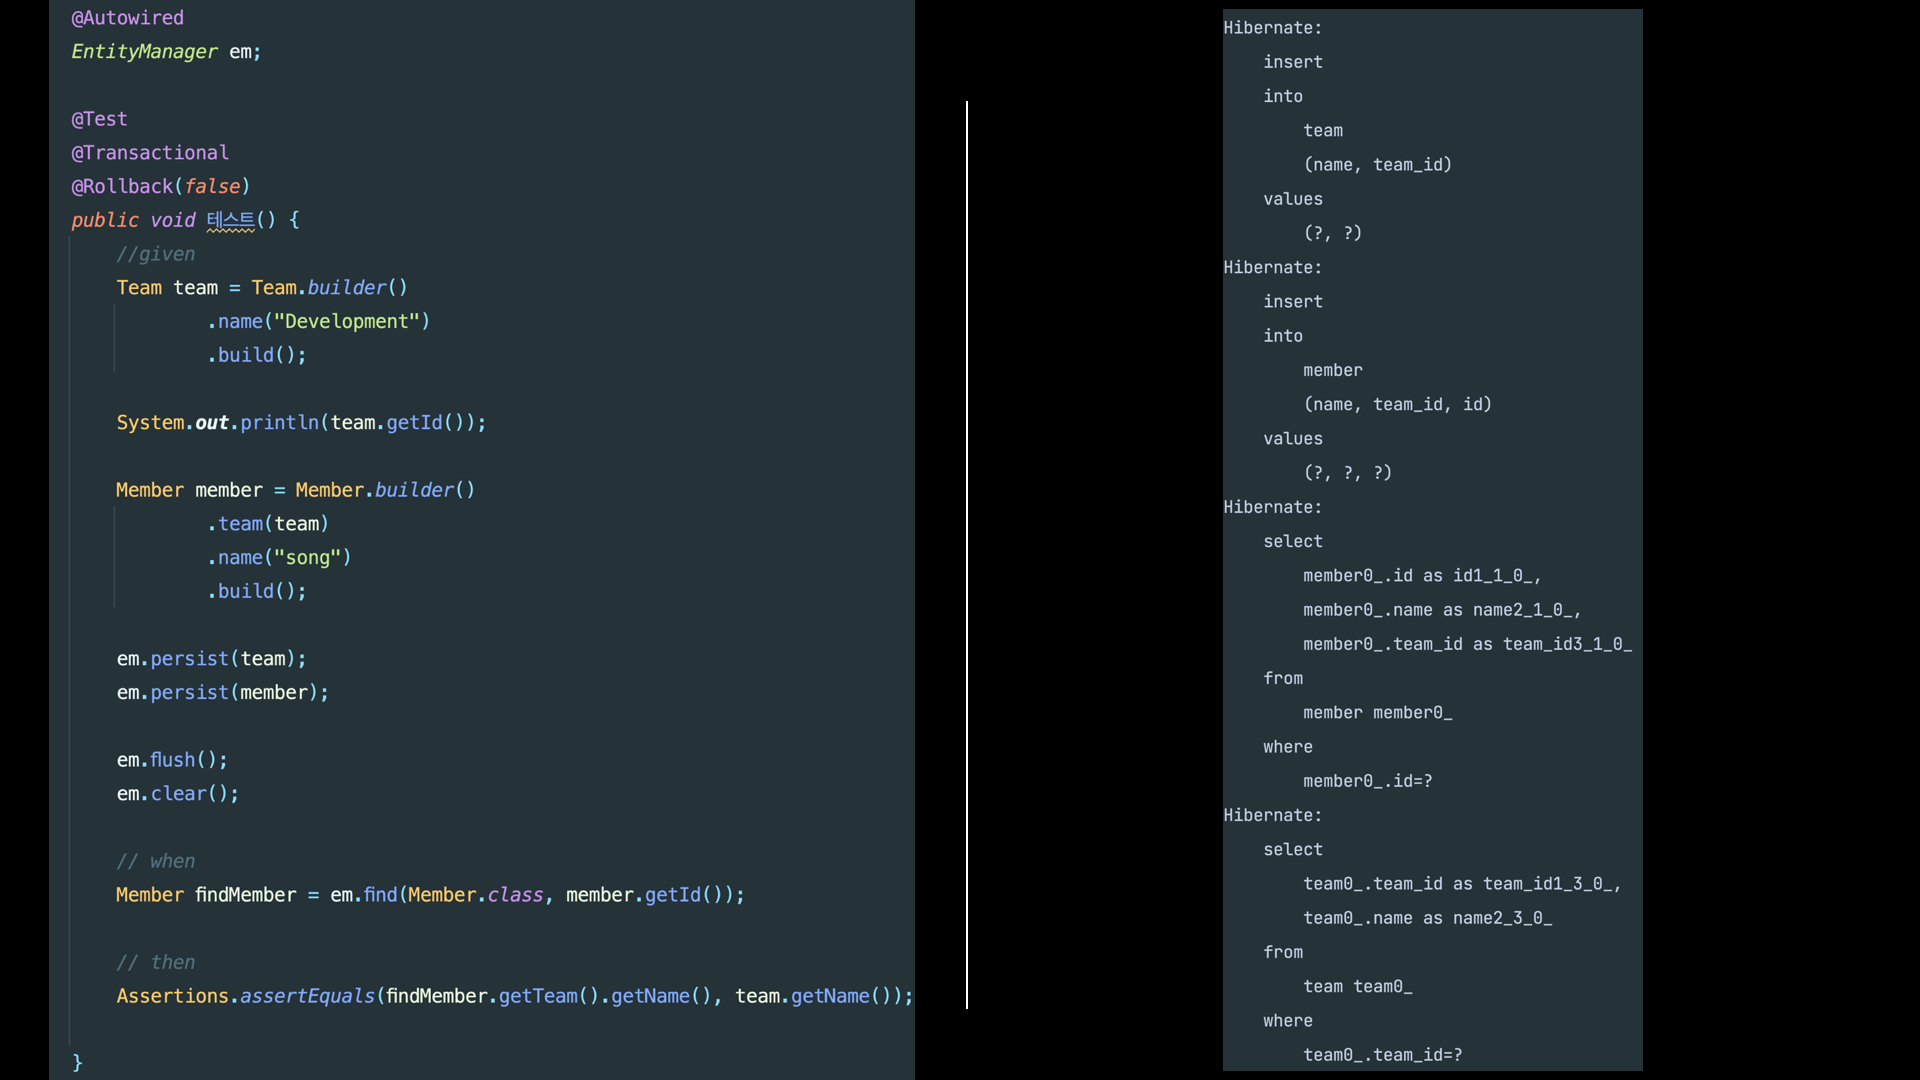
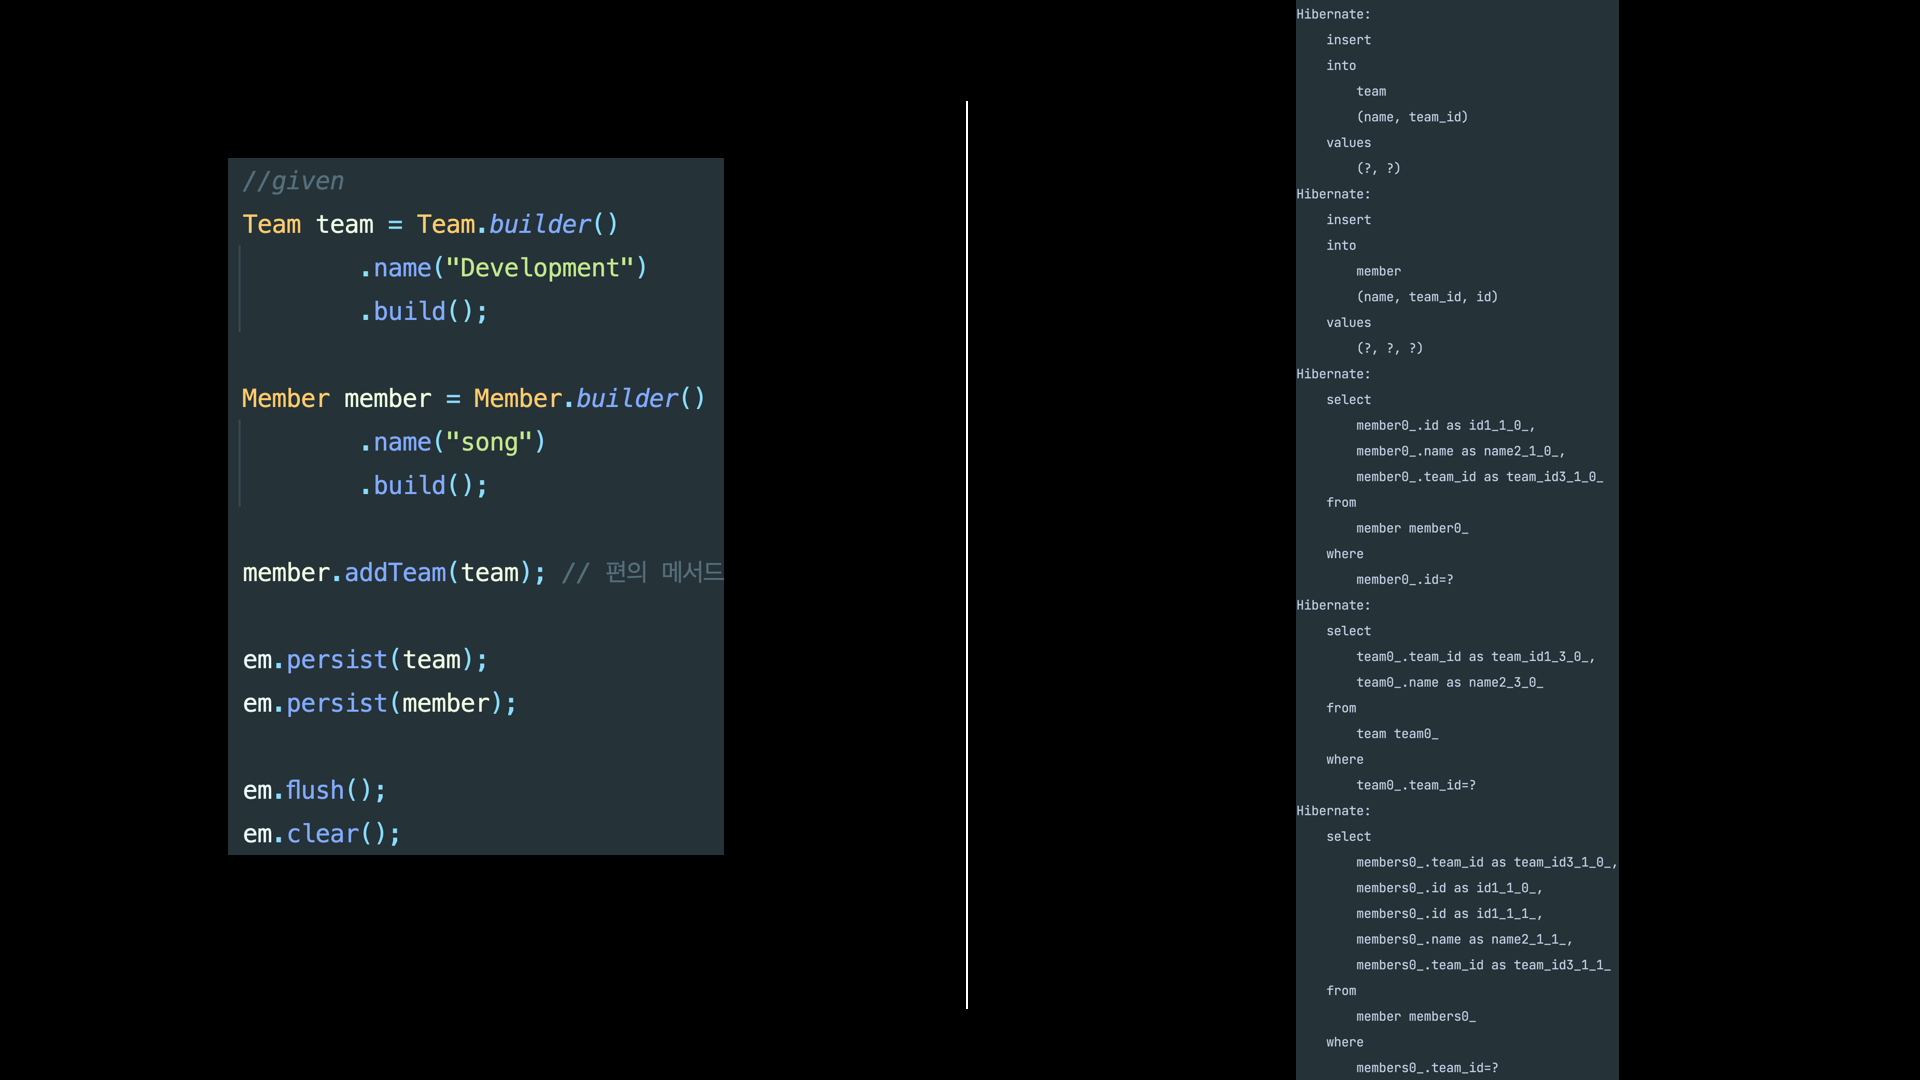
add : #15 다대일 양방향 관계

diff --git a/practice/jpastudy/src/test/java/com/jpastudy/demo/domain/EntityTest.java b/practice/jpastudy/src/test/java/com/jpastudy/demo/domain/EntityTest.java
@@ -8,6 +8,7 @@ import org.springframework.test.annotation.Rollback;
 import org.springframework.transaction.annotation.Transactional;
 
 import javax.persistence.EntityManager;
+import java.util.stream.Collectors;
 
 @SpringBootTest
 class EntityTest {
@@ -24,12 +25,11 @@ class EntityTest {
                 .name("Development")
                 .build();
 
-        System.out.println(team.getId());
-
         Member member = Member.builder()
-                .team(team)
                 .name("song")
                 .build();
+
+        member.addTeam(team); // 편의 메서드
 
         em.persist(team);
         em.persist(member);
@@ -39,9 +39,16 @@ class EntityTest {
 
         // when
         Member findMember = em.find(Member.class, member.getId());
+        Team findTeam = em.find(Team.class, team.getId());
 
         // then
-//        Assertions.assertEquals(findMember.getTeam().getName(), team.getName());
+        Assertions.assertEquals(
+                findMember.getName(),
+                findTeam.getMembers()
+                        .stream()
+                        .map(Member::getName)
+                        .collect(Collectors.joining())
+        );
 
     }
 

diff --git a/practice/jpastudy/src/main/java/com/jpastudy/demo/domain/Member.java b/practice/jpastudy/src/main/java/com/jpastudy/demo/domain/Member.java
@@ -25,9 +25,18 @@ public class Member {
     ////////////////////
 
     @Builder
-    public Member(String name, Team team) {
+    public Member(String name) {
         this.name = name;
+    }
+
+    // 편의 메서드
+    public void addTeam(Team team) {
+        if(this.team != null) {
+            this.team.getMembers().remove(this);
+        }
+
         this.team = team;
+        team.getMembers().add(this);
     }
 
 }

diff --git a/practice/jpastudy/src/main/java/com/jpastudy/demo/domain/Team.java b/practice/jpastudy/src/main/java/com/jpastudy/demo/domain/Team.java
@@ -17,6 +17,9 @@ public class Team {
 
     private String name;
 
+    @OneToMany(mappedBy = "team")
+    private List<Member> members = new ArrayList<>();
+
     @Builder
     public Team(String name) {
         this.name = name;

diff --git a/practice/jpastudy/assets/README.md b/practice/jpastudy/assets/README.md
@@ -1,7 +1,6 @@
 
 # 다양한 연관관계 매핑
 
-
 ## 1. 다대일
 
 ### 1.1. 다대일 단방향
@@ -20,9 +19,38 @@ private Team team;
 - `@JoinColumn` : name을 생략하면 TEAM_TEAM_ID`[객체명_객체컬럼]`이 default
 - Member.team 필드로 회원 테이블의 TEAM_ID 외래 키와 매핑하여 관리
 
-![img.png](img.png)
+#### 1.1.1. 다대일 단방향 Test
+![img_1.png](img_1.png)
 1. em.flush(), clear()를 통해 INSERT 구문 실행 및 영속성 컨텍스트 캐시가 비워진 상황이다. 
 2. em.find()를 통해  SELECT 구문이 실행
 3. findMember.getTeam().getName()을 통해 SELECT 구문 실행 
 
 ### 1.2. 다대일 양방향
+![img_3.png](img_3.png)
+
+> 양방향은 외래 키가 있는 쪽이 연관관계의 주인
+- 일대다와 다대일 연관관계는 항상 다(N)에 외래키 존재
+- 다쪽인(N) Member 테이블이 외래 키를 가지고 있으므로 Member.team이 연관관계 주인
+- JPA는 외래 키를 관리할 때 연관관계의 주인만 사용
+- 주인이 아닌 Team.members는 조회를 위한 JPQL이나 객체 그래프를 탐색할 때 사용
+
+> 양방향 연관관계는 항상 서로를 참조해야 한다.
+- 어느 한 쪽만 참조하면 양방향 연관관계가 성립되지 않는다.
+- 항상 서로 참조하게 하려면 연관관계 편의 메소드 작성이 필요하다
+
+#### 1.2.1. 연관관계 편의메서드
+- 객체의 양방향 연관관계는 양쪽 모두 관계를 맺어주어야 순수한 객체 상태에서도 정상적으로 동작한다.
+- 양쪽 한 곳에만 작성하거나 양쪽 다 작성할 수 있지만 무한루프의 위험성으로 한 곳에만 작성하는 것이 좋다.
+```java
+public void addTeam(Team team) {
+    this.team = team;
+    if(!team.getMembers().contains(this)) {
+        team.getMembers().add(this);
+    }
+}
+```
+
+#### 1.2.2. 테스트 코드
+![img.png](img.png)
+- 편의 메서드를 통해 객체 간의 연관관계를 맺어주는 작업이 필요.
+- [1.1.1.] when, then은 동일하다.
